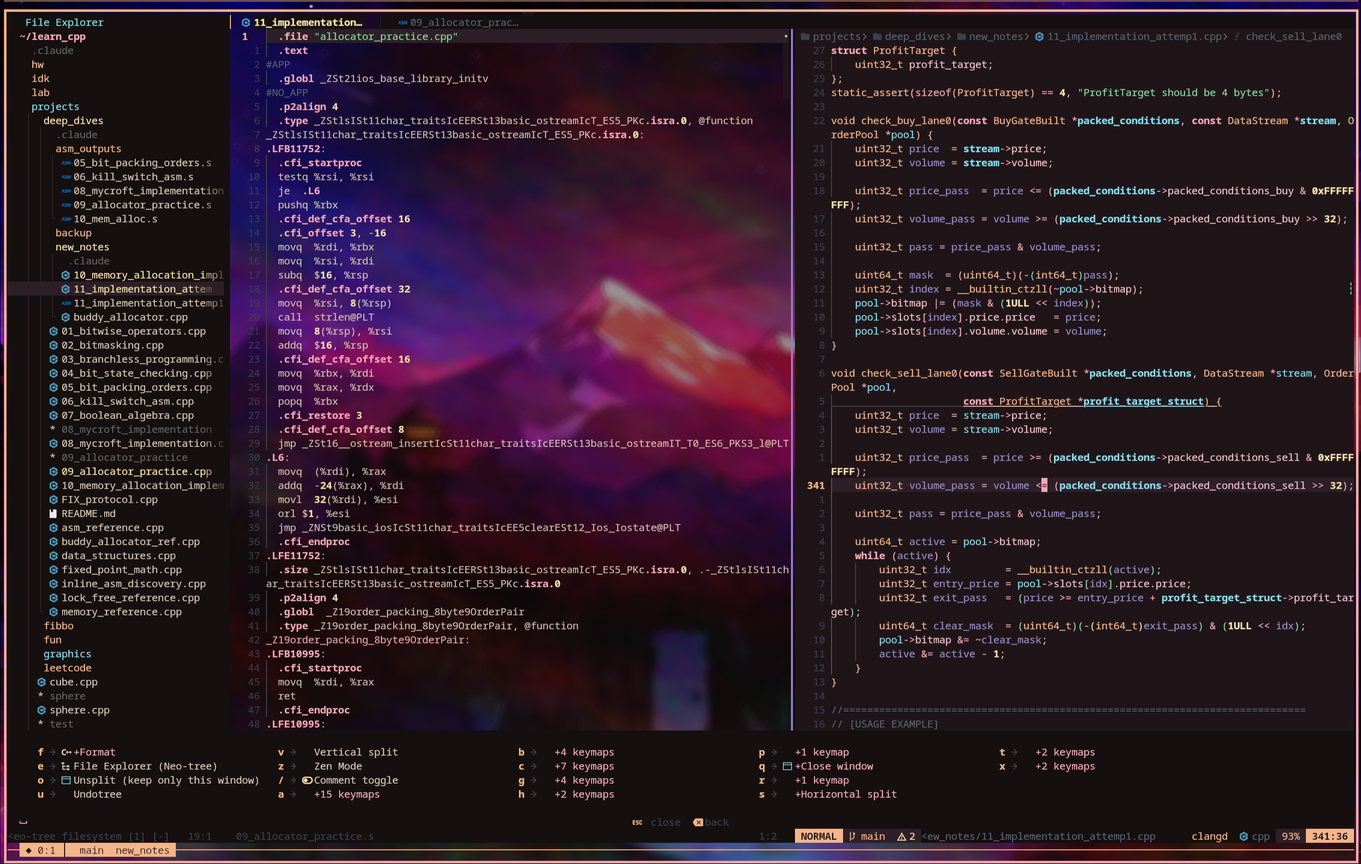
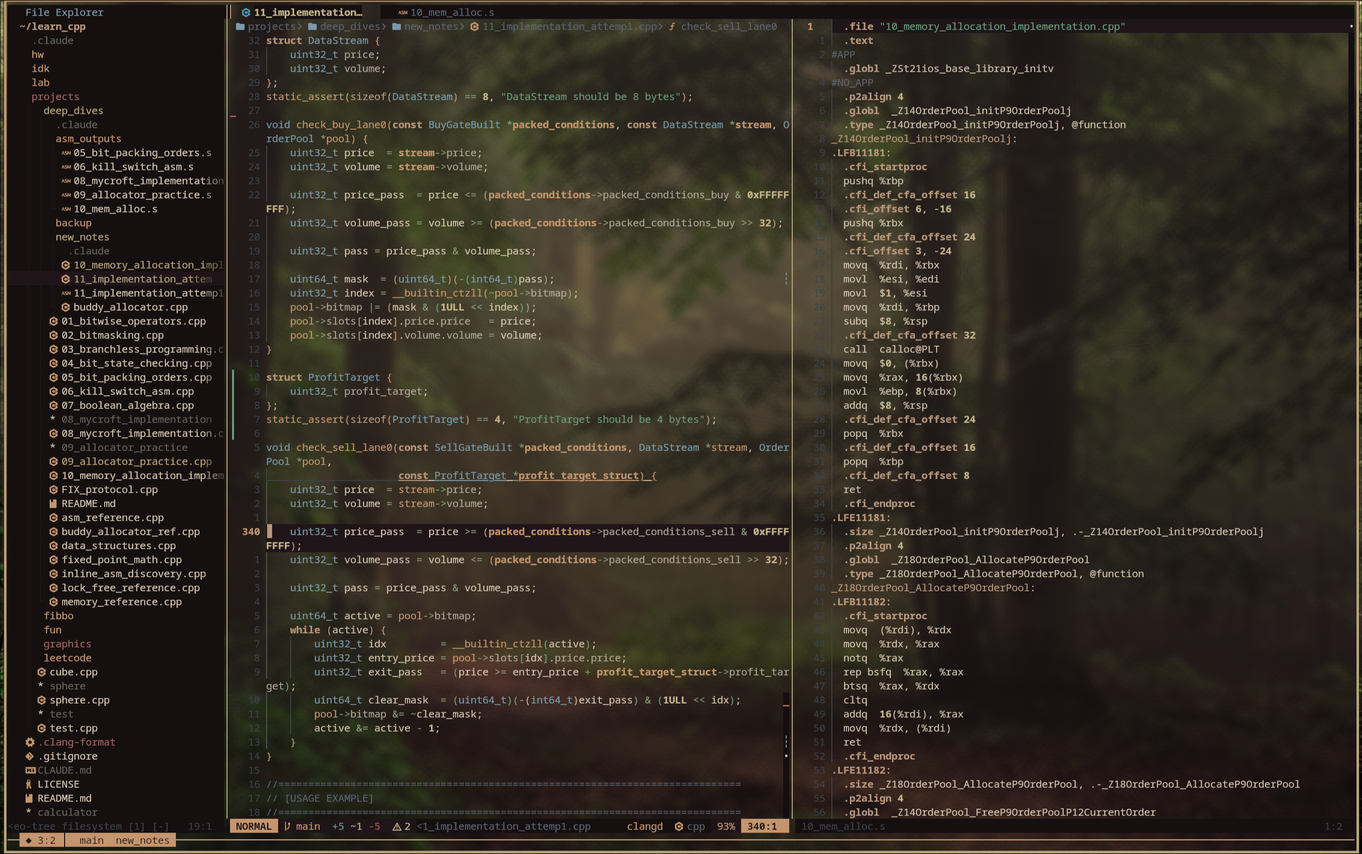
palette overhaul: neon pastels → earthy tones, fix nvim separator, tmux pane contrast
Full palette rework from saturated neon to muted earthy colors (peach, wheat,
sage, dusty rose). Fix colorful-winsep API change (hi → highlight) that left
separator stuck on default lavender. Tmux active border now bold PRIMARY with
stronger inactive dimming. Simplified zsh welcome, updated screenshots/README.

diff --git a/CHANGELOG.md b/CHANGELOG.md
@@ -6,6 +6,40 @@ All notable changes to the Fox ML theme.
 
 ## 2026-03-13
 
+### Palette Overhaul — Neon → Earthy
+- Reworked entire FoxML Classic palette from neon pastels to muted earthy tones
+- Primary: `#f4b58a` → `#c4956e` (peach), Secondary: `#f5a9b8` → `#b8967a` (warm pink → dusty rose), Accent: `#9a8ac4` → `#8a9a7a` (lavender → sage)
+- FG: `#f5f5f7` → `#d5c4b0` (cold white → warm cream), all ANSI colors shifted to lower-saturation earthy variants
+- ANSI 256-color codes updated for zsh prompts/gradients (pink rainbow → clay/wheat/sage gradient)
+- FZF, ZSH command highlight, OK/WARN semantic colors all updated to match
+- Kitty opacity raised from 0.45 → 0.6 for readability with new palette
+
+### Tmux — Pane Visibility Rework
+- Active border now uses PRIMARY peach (`#c4956e`) with bold (thicker border)
+- Removed solid background on active pane — all panes fully transparent (`bg=default`)
+- Dimmed inactive pane text from `#555555` → `#3a3a3a` for stronger active/inactive contrast
+- Hyprland active window border updated: peach → wheat gradient
+
+### Nvim — Transparency & Separator Fixes
+- Fixed `colorful-winsep.nvim` config: plugin API changed from `hi = { fg = ... }` table to `highlight = "..."` string — was silently falling back to default lavender `#957CC6`
+- Active window separator now renders earthy wheat (`#b8a87e`)
+- Visual selection background warmed from `#2d1f27` → `#3d2a1e` (muted plum → warm brown)
+- `NormalNC` (inactive windows) set to transparent instead of solid bg
+- `StatusLine`/`StatusLineNC` backgrounds set to transparent
+- `VertSplit`/`WinSeparator` changed from solid `bg_deep` to wheat fg on transparent bg
+- Variables (`@variable`) changed from lavender to default fg for cleaner code readability
+
+### Zsh — Simplified Welcome Splash
+- Condensed welcome screen: removed system info block (kernel, shell, WM, terminal, battery)
+- Cleaner date/time format, compact FoxML ASCII banner
+- Updated color comments to match earthy palette names
+
+### Misc
+- Wallpaper changed to `foxml_earthy.jpg`
+- Removed packages line from fastfetch config
+- Updated README screenshots (terminal, nvim, nvim+avante) — removed outdated desktop screenshot
+- Updated README to remove old desktop screenshot reference
+
 ### Neovim - Syntax Color Refinement & Window Fixes
 - Improved syntax color differentiation: types (peach italic), functions (peach), variables (lavender), parameters (cyan), members (soft pink), operators (pink), keywords (pink bold)
 - Updated LSP semantic token highlights to match treesitter palette — fixes colors shifting 1-2 seconds after file open when clangd attaches

diff --git a/README.md b/README.md
@@ -7,22 +7,20 @@ A template-based multi-theme hub for 23+ apps. Sharp corners, no rounded anythin
 ## Theme
 
 ### [FoxML Classic](themes/FoxML_Classic/) (dark)
-Dark theme with peach and lavender accents, neon glows, glassmorphic panels.
+Dark theme with earthy, muted tones — warm peach, dusty rose, sage, and wheat on a deep plum background.
 
 | Role | Color | |
 |------|-------|-|
 | Background | `#1a1214` | Warm dark |
-| Foreground | `#f5f5f7` | Off-white |
-| Primary | `#f4b58a` | Peach |
-| Active | `#f5a9b8` | Pink |
-| Accent | `#9a8ac4` | Lavender |
+| Foreground | `#d5c4b0` | Warm cream |
+| Primary | `#c4956e` | Peach |
+| Secondary | `#b8967a` | Dusty rose |
+| Accent | `#8a9a7a` | Sage |
 | Surface | `#3a414b` | Slate |
 
 ## Screenshots
 
 ![Terminal](shared/screenshots/terminal.png)
-
-![Desktop](shared/screenshots/desktop.png)
 
 ![Neovim](shared/screenshots/nvim.png)
 
